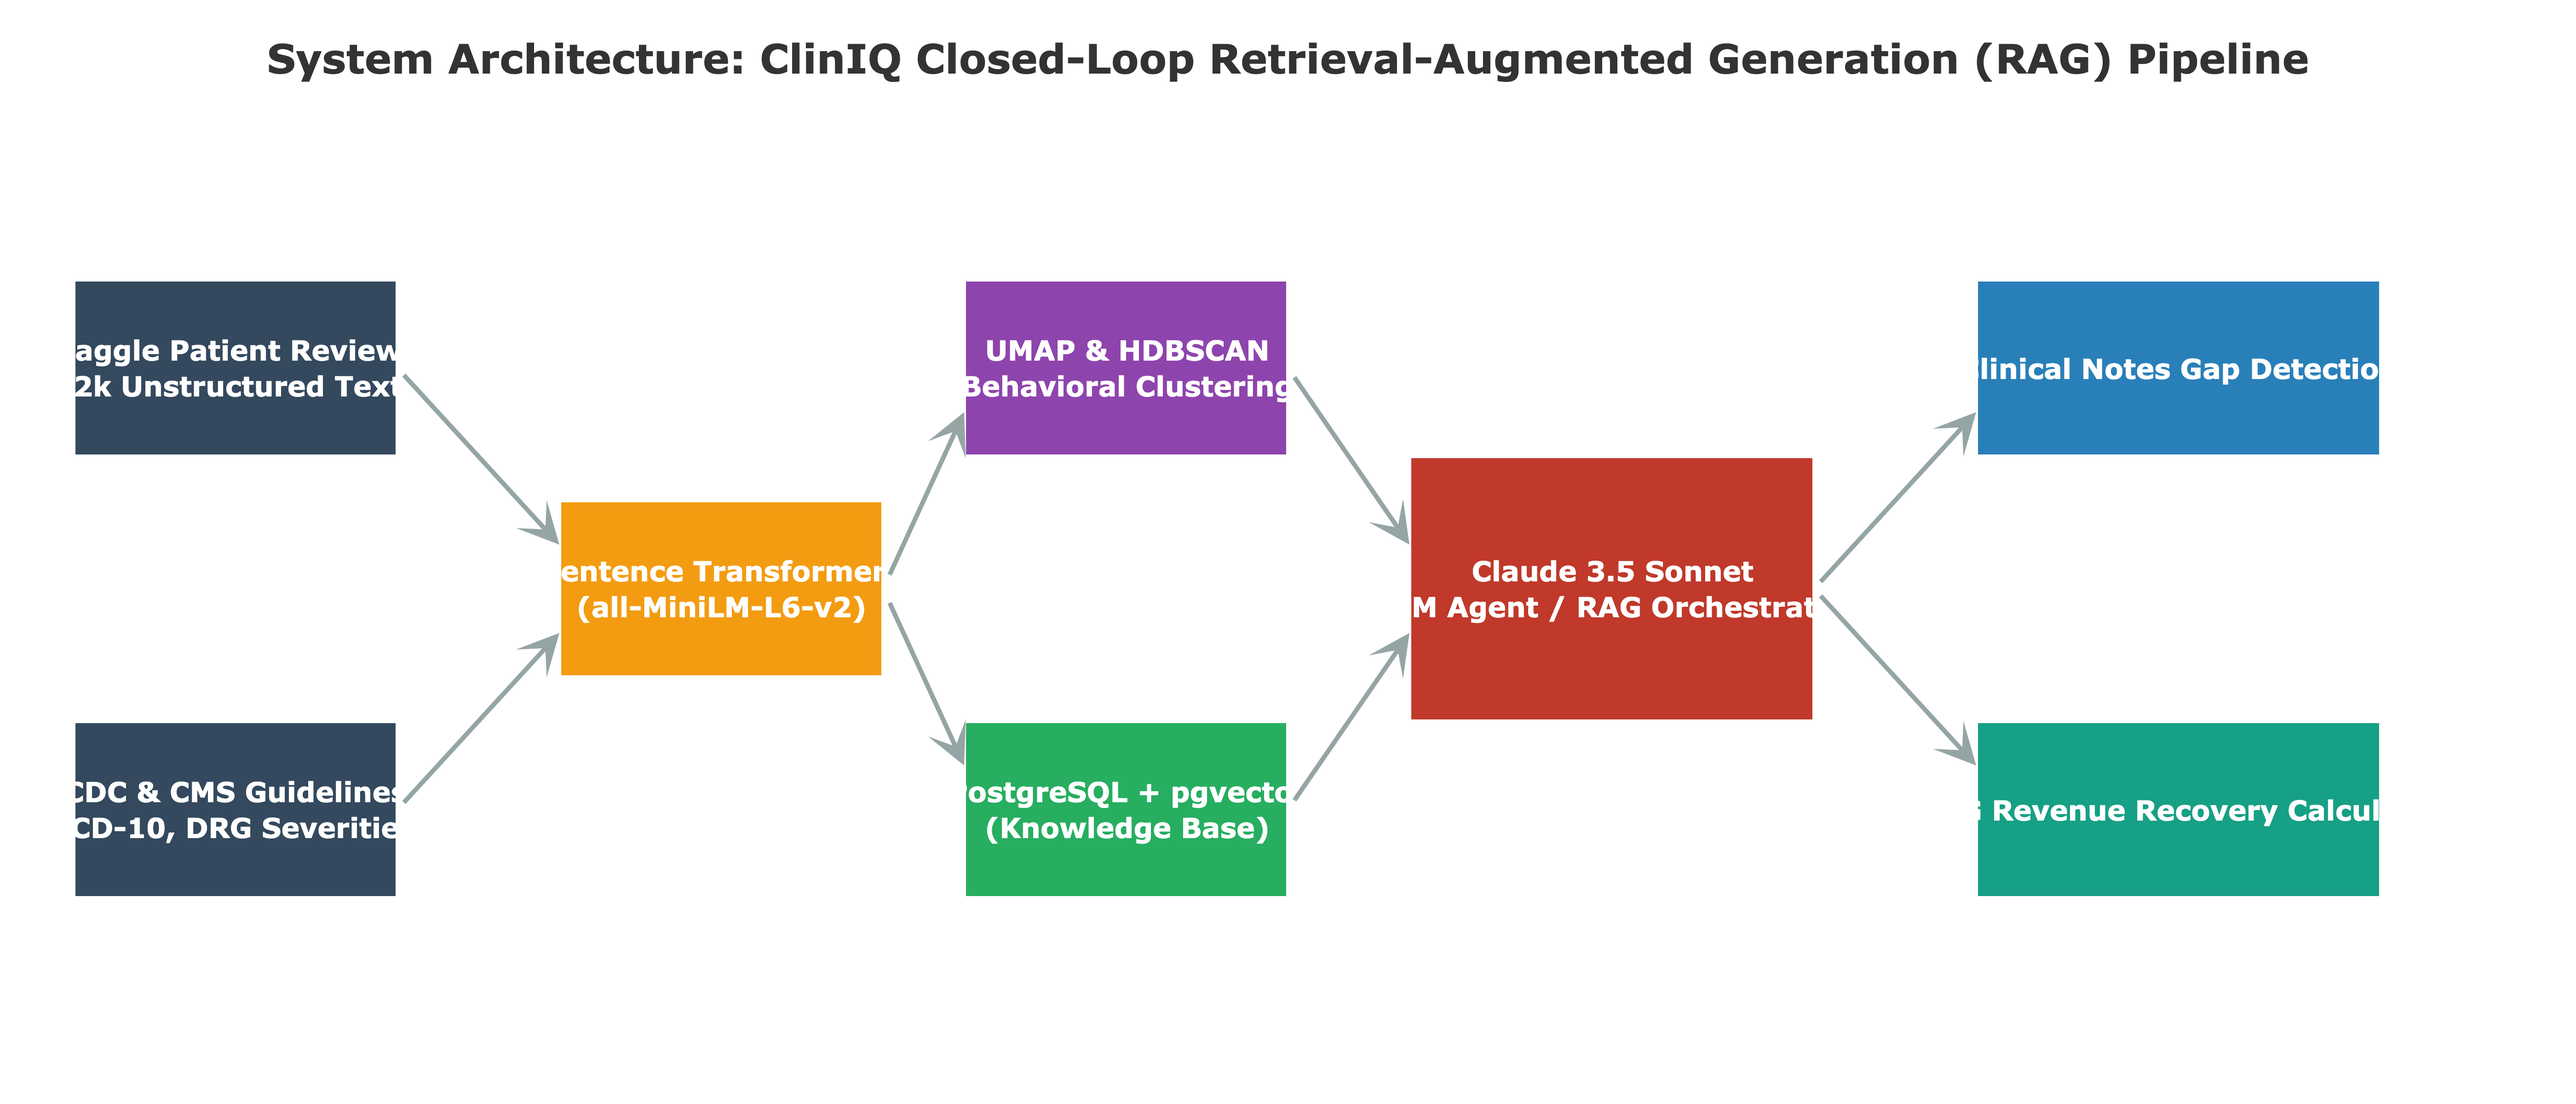
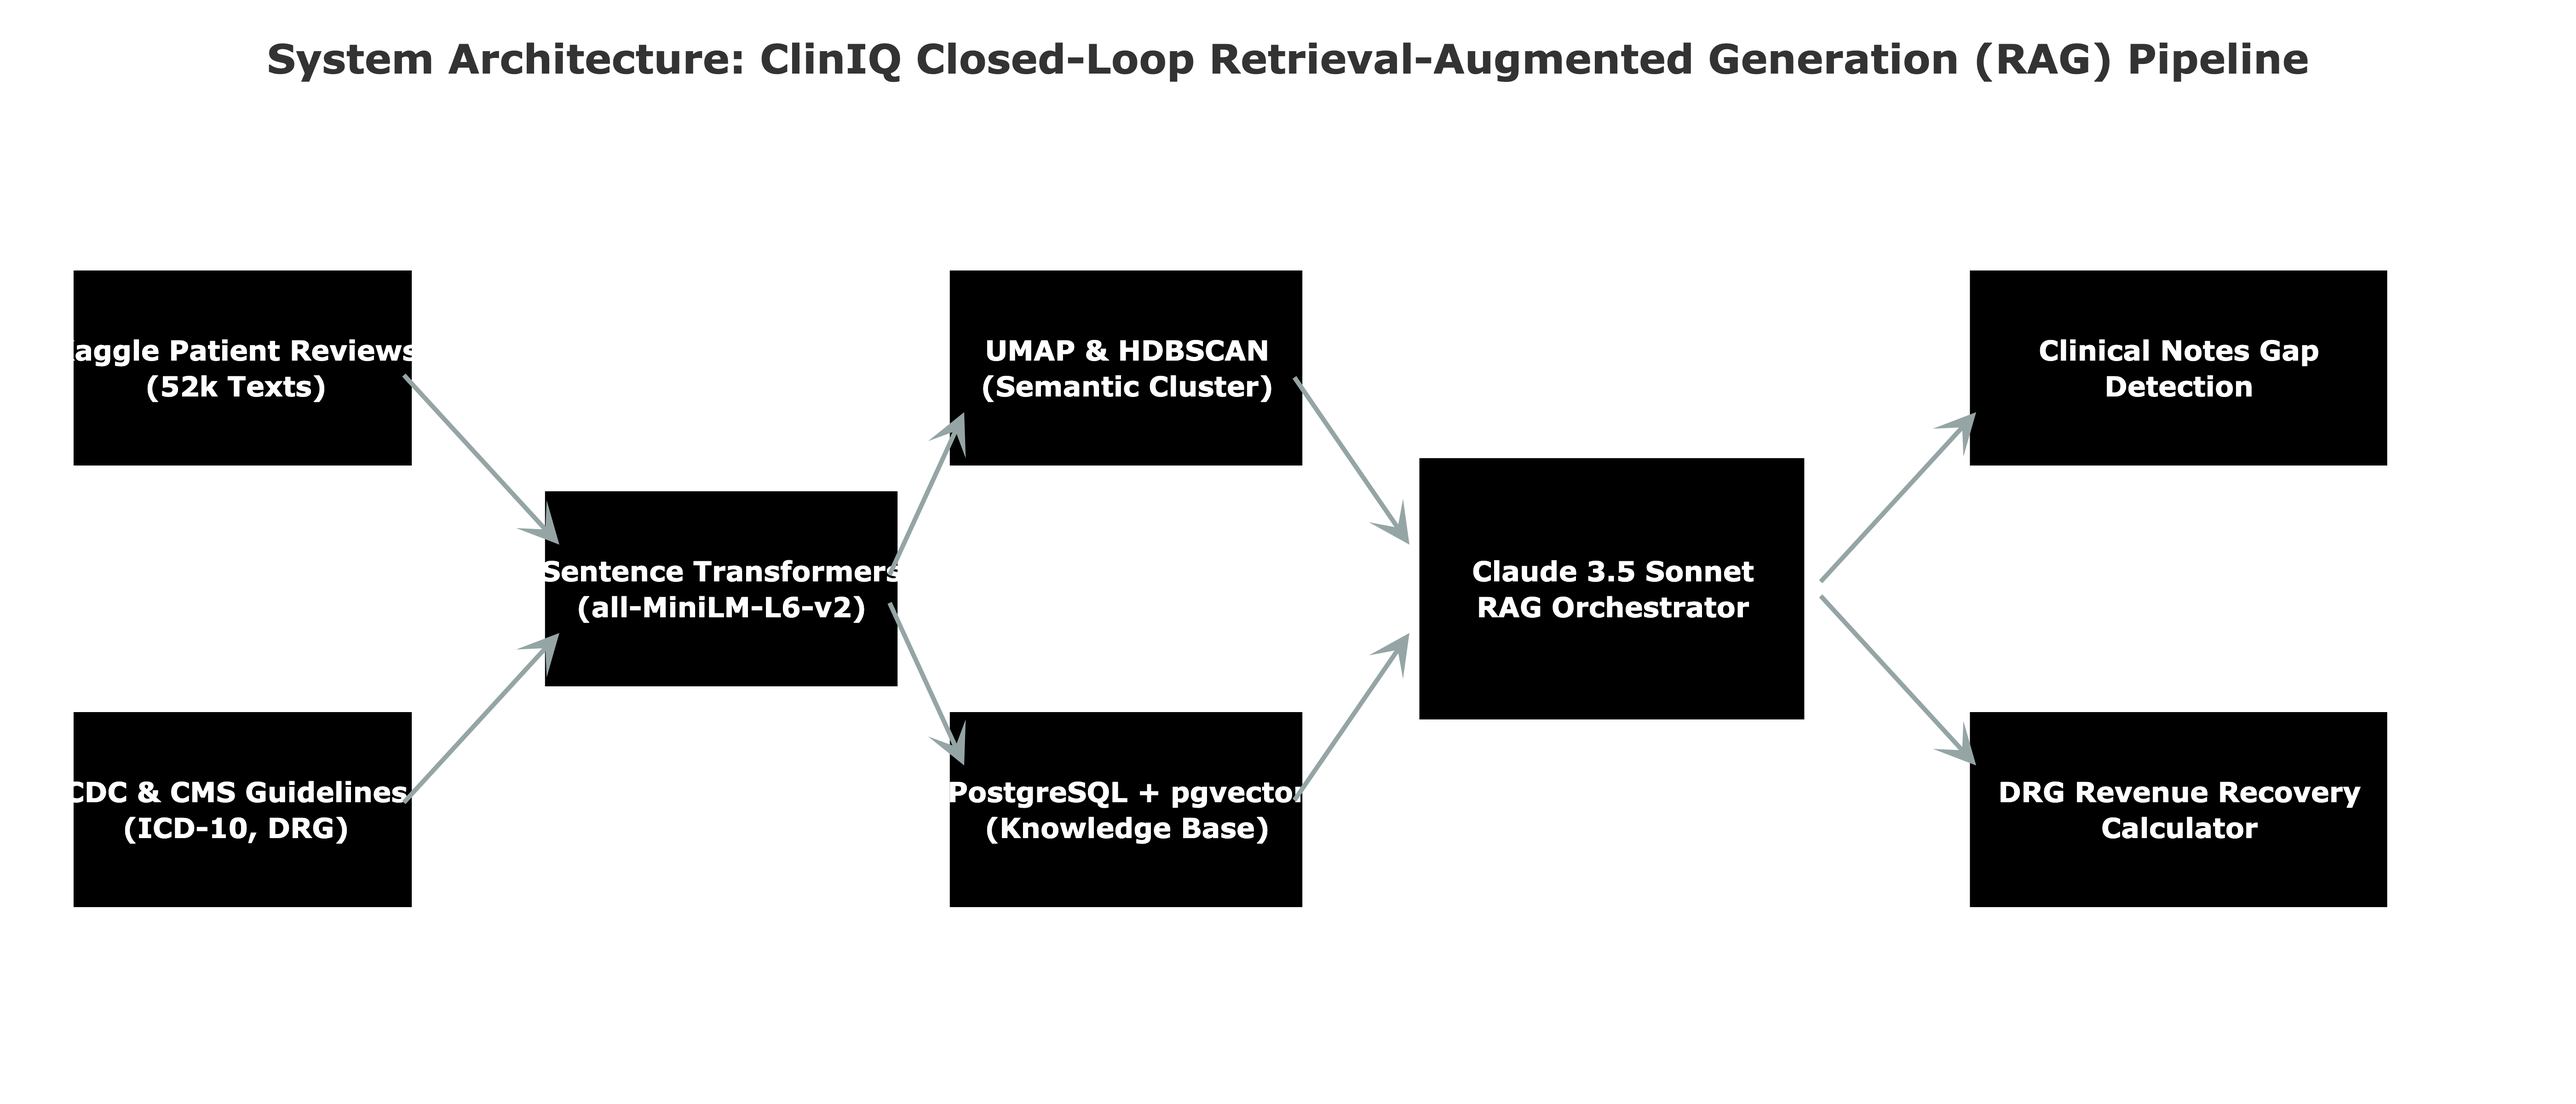
Fix architecture diagram text overflow and switch to monochrome theme

diff --git a/report/generate_architecture_diagram.py b/report/generate_architecture_diagram.py
@@ -9,20 +9,20 @@ fig = go.Figure()
 # Define blocks: (label, x, y, width, height, color)
 blocks = [
     # Layer 1: Data Sources
-    ("Kaggle Patient Reviews<br>(52k Unstructured Texts)", 1, 3, 2, 0.8, '#34495e'),
-    ("CDC & CMS Guidelines<br>(ICD-10, DRG Severities)", 1, 1, 2, 0.8, '#34495e'),
+    ("Kaggle Patient Reviews<br>(52k Texts)", 1, 3, 2.2, 0.9, '#000000'),
+    ("CDC & CMS Guidelines<br>(ICD-10, DRG)", 1, 1, 2.2, 0.9, '#000000'),
     
     # Layer 2: Ingestion & VectorDB
-    ("Sentence Transformers<br>(all-MiniLM-L6-v2)", 4, 2, 2, 0.8, '#f39c12'),
-    ("PostgreSQL + pgvector<br>(Knowledge Base)", 6.5, 1, 2, 0.8, '#27ae60'),
-    ("UMAP & HDBSCAN<br>(Behavioral Clustering)", 6.5, 3, 2, 0.8, '#8e44ad'),
+    ("Sentence Transformers<br>(all-MiniLM-L6-v2)", 4, 2, 2.2, 0.9, '#000000'),
+    ("PostgreSQL + pgvector<br>(Knowledge Base)", 6.5, 1, 2.2, 0.9, '#000000'),
+    ("UMAP & HDBSCAN<br>(Semantic Cluster)", 6.5, 3, 2.2, 0.9, '#000000'),
     
     # Layer 3: Inference Pipeline
-    ("Claude 3.5 Sonnet<br>LLM Agent / RAG Orchestrator", 9.5, 2, 2.5, 1.2, '#c0392b'),
+    ("Claude 3.5 Sonnet<br>RAG Orchestrator", 9.5, 2, 2.4, 1.2, '#000000'),
     
     # Layer 4: Clinical Bridge Outputs
-    ("Clinical Notes Gap Detection", 13, 3, 2.5, 0.8, '#2980b9'),
-    ("DRG Revenue Recovery Calculator", 13, 1, 2.5, 0.8, '#16a085'),
+    ("Clinical Notes Gap<br>Detection", 13, 3, 2.6, 0.9, '#000000'),
+    ("DRG Revenue Recovery<br>Calculator", 13, 1, 2.6, 0.9, '#000000'),
 ]
 
 for label, cx, cy, w, h, color in blocks:
